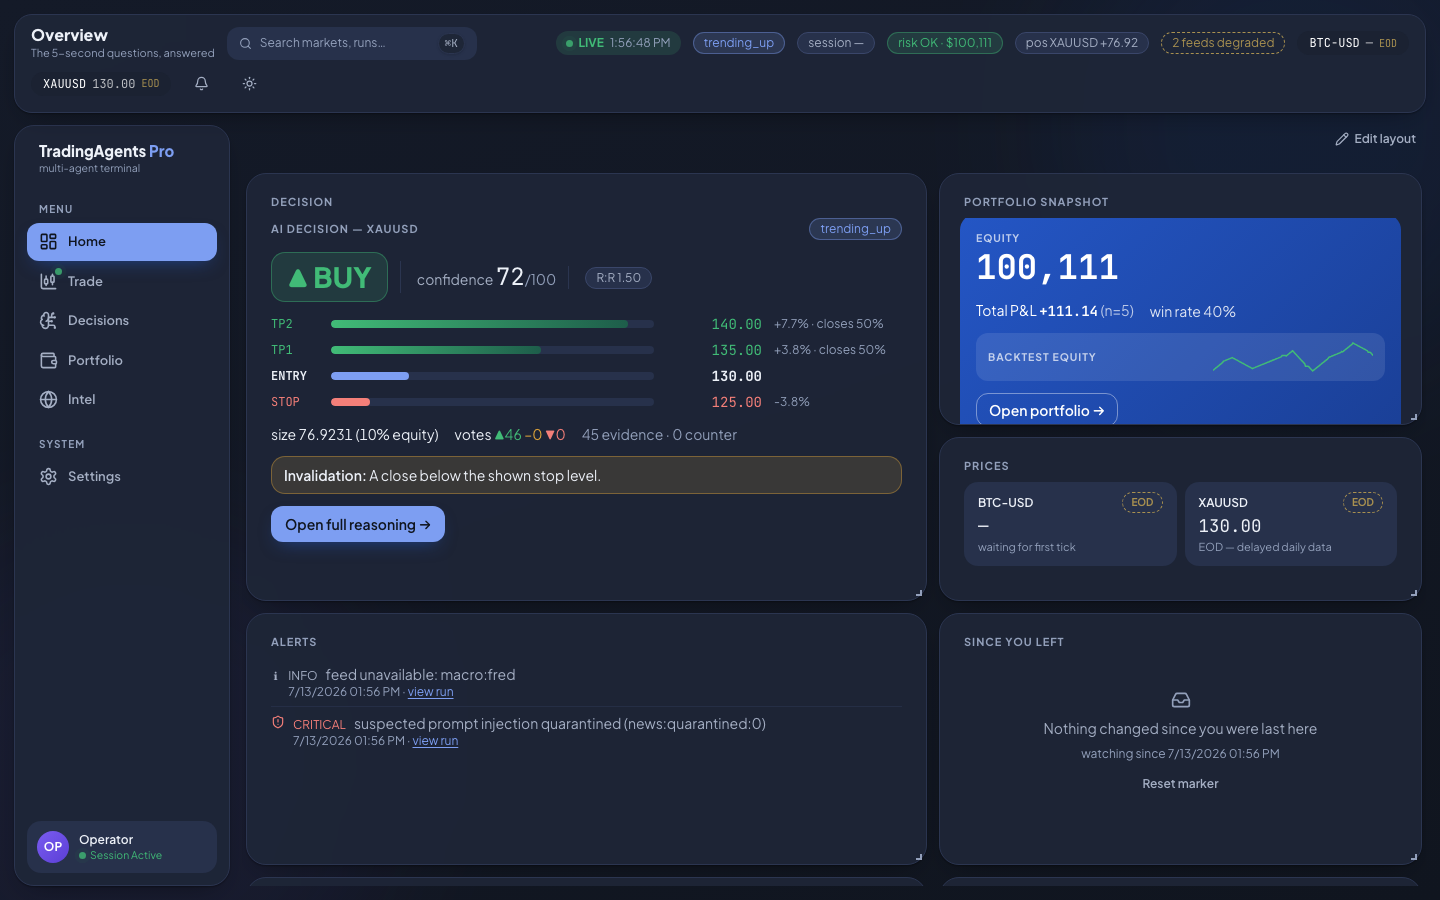
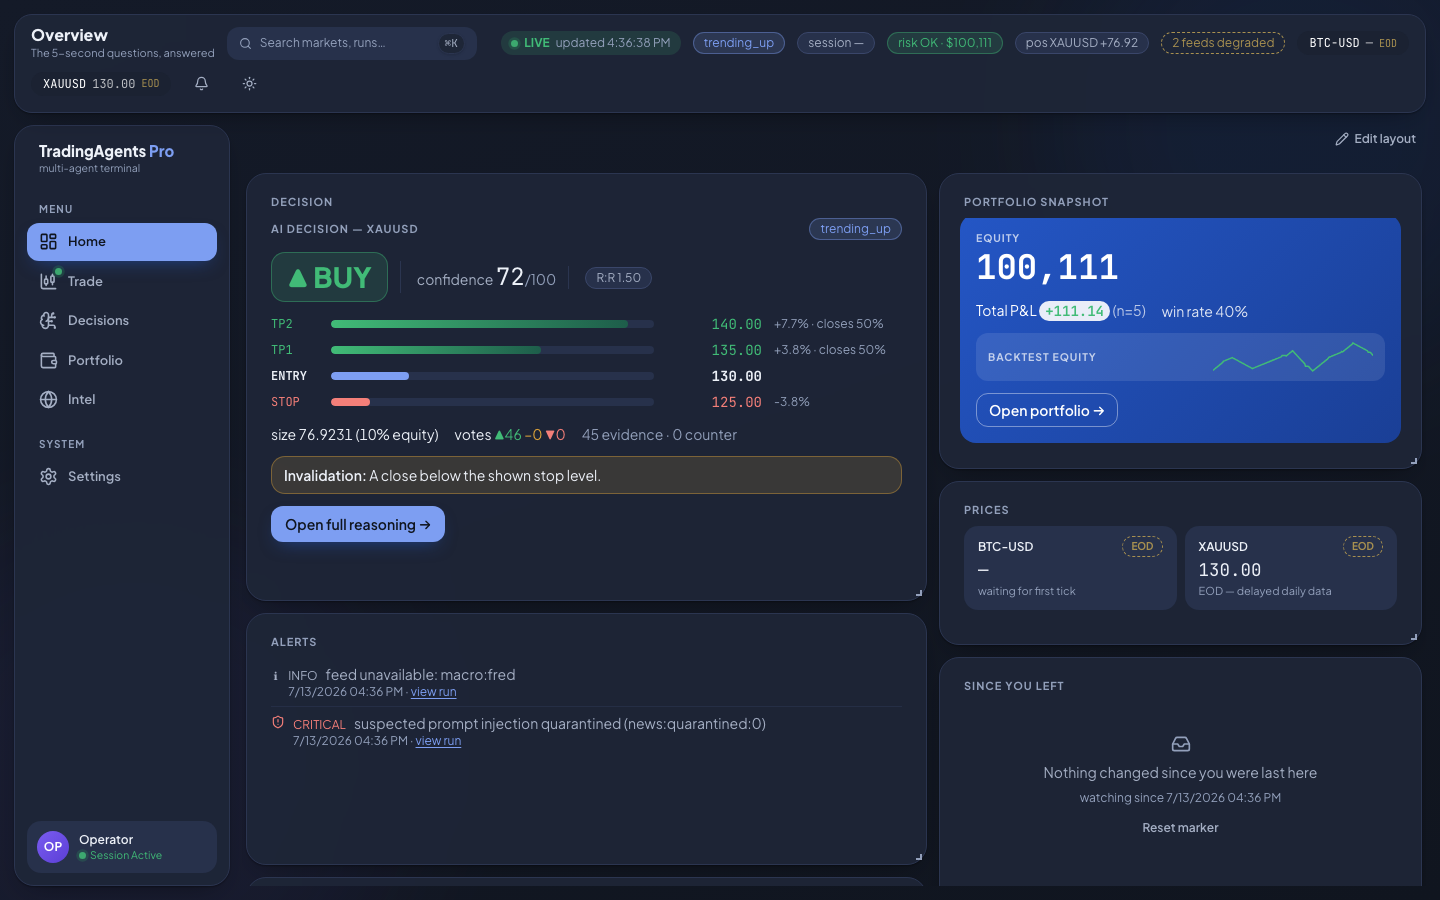
polish: fix the 7 fixable nits from DESIGN_REVIEW
- Home snapshot widget default height fits its CTA (h 6->7)
- P&L on the gradient card regains bull/bear tone via a white chip
- hero ladder restores sr-only column headers
- ConnPill timestamp says 'updated' again
- drawing-primitive fallbacks aligned to palette; fibFill now theme-derived
- <981px search icon gets a distinct aria-label
- agent leaderboard scrolls horizontally instead of clipping

Nit 8 (Binance WS console warnings) is environmental: geo-blocked network,
pre-existing transport fallback, surfaced via degraded chips. Report updated.

diff --git a/frontend/src/features/home/HomePage.tsx b/frontend/src/features/home/HomePage.tsx
@@ -23,6 +23,7 @@ import {
   useStatus,
 } from "@/lib/api/queries";
 import { fmtPnl, fmtPrice, fmtDateTime, fmtPct } from "@/lib/format";
+import { cn } from "@/lib/utils";
 import { useTick } from "@/stores/ticker";
 import { useLayoutStore } from "@/stores/layout";
 import { useUiStore } from "@/stores/ui";
@@ -70,9 +71,21 @@ function PortfolioSnapshot() {
       <div className="flex flex-wrap items-center gap-x-4 gap-y-1 text-sm">
         <span>
           Total P&L{" "}
-          <span className="font-mono font-semibold tabular">
-            {fmtPnl(j?.total_pnl)}
-          </span>
+          {/* toned chip: white base keeps bull/bear legible on the gradient */}
+          {j?.total_pnl != null ? (
+            <span
+              className={cn(
+                "rounded-md bg-white/90 px-1.5 py-px font-mono font-semibold tabular",
+                j.total_pnl >= 0 ? "text-bull" : "text-bear",
+              )}
+            >
+              {fmtPnl(j.total_pnl)}
+            </span>
+          ) : (
+            <span className="font-mono font-semibold tabular">
+              {fmtPnl(j?.total_pnl)}
+            </span>
+          )}
           {j?.n_trades != null && (
             <span className="text-white/70"> (n={j.n_trades})</span>
           )}
@@ -258,7 +271,7 @@ function AlertsWidget() {
 
 const WIDGETS: WidgetDef[] = [
   { id: "decision", title: "Decision", render: () => <DecisionHero />, layout: { x: 0, y: 0, w: 7, h: 10, minW: 4, minH: 7 } },
-  { id: "snapshot", title: "Portfolio snapshot", render: () => <PortfolioSnapshot />, layout: { x: 7, y: 0, w: 5, h: 6, minW: 3, minH: 5 } },
+  { id: "snapshot", title: "Portfolio snapshot", render: () => <PortfolioSnapshot />, layout: { x: 7, y: 0, w: 5, h: 7, minW: 3, minH: 6 } },
   { id: "prices", title: "Prices", render: () => <PriceRibbon />, layout: { x: 7, y: 6, w: 5, h: 4, minW: 3, minH: 4 } },
   { id: "alerts", title: "Alerts", render: () => <AlertsWidget />, layout: { x: 0, y: 10, w: 7, h: 6, minW: 3, minH: 4 } },
   { id: "diff", title: "Since you left", render: () => <SinceYouLeft />, layout: { x: 7, y: 10, w: 5, h: 6, minW: 3, minH: 4 } },

diff --git a/frontend/src/components/AgentLeaderboard.tsx b/frontend/src/components/AgentLeaderboard.tsx
@@ -12,7 +12,7 @@ export function AgentLeaderboard({ perf }: { perf: AgentPerf }) {
   });
 
   return (
-    <div className="max-h-96 overflow-y-auto">
+    <div className="max-h-96 overflow-y-auto overflow-x-auto">
       <table className="w-full text-xs" data-testid="agent-leaderboard">
         <thead className="sticky top-0 bg-surface">
           <tr className="border-b border-border text-left text-fg-subtle">
@@ -43,7 +43,7 @@ export function AgentLeaderboard({ perf }: { perf: AgentPerf }) {
                 <td className="py-1 pr-2 text-right">
                   {row.avg_confidence.toFixed(0)}
                 </td>
-                <td className="py-1 pr-2 text-right">
+                <td className="whitespace-nowrap py-1 pr-2 text-right">
                   {row.hit_rate == null
                     ? `— (n=${row.scored})`
                     : `${Math.round(row.hit_rate * 100)}% (n=${row.scored})`}

diff --git a/frontend/src/app/StatusStrip.tsx b/frontend/src/app/StatusStrip.tsx
@@ -72,7 +72,7 @@ function ConnPill() {
       {state === "disconnected" && "DISCONNECTED"}
       {state === "live" && lastSuccess > 0 && (
         <span className="font-normal text-fg-subtle max-md:hidden">
-          {fmtTime(new Date(lastSuccess).toISOString())}
+          updated {fmtTime(new Date(lastSuccess).toISOString())}
         </span>
       )}
     </span>
@@ -261,7 +261,7 @@ export function StatusStrip() {
         <Button
           variant="ghost"
           size="icon"
-          aria-label="Search and commands (Cmd+K)"
+          aria-label="Search (Cmd+K)"
           className="min-[981px]:hidden"
           onClick={() => setPaletteOpen(true)}
         >

diff --git a/frontend/src/components/charts/drawings/primitive.ts b/frontend/src/components/charts/drawings/primitive.ts
@@ -43,11 +43,13 @@ export class DrawingsPrimitive implements ISeriesPrimitive<Time> {
   private requestUpdateFn: (() => void) | null = null;
   private drawings: Drawing[] = [];
   private preview: PreviewState | null = null;
+  // fallbacks only — PriceChart overrides all of these with theme tokens
+  // via setDrawings before anything is drawn
   private colors: DrawingColors = {
-    line: "#79c0ff",
-    fib: "#d29922",
-    fibFill: "rgba(210,153,34,0.07)",
-    label: "#9ca7b3",
+    line: "#2456c5",
+    fib: "#8b610d",
+    fibFill: "rgba(139,97,13,0.08)",
+    label: "#646f84",
   };
   private paneView: IPrimitivePaneView;
 

diff --git a/frontend/src/components/DecisionCard.tsx b/frontend/src/components/DecisionCard.tsx
@@ -70,6 +70,9 @@ function LevelLadder({ rec }: { rec: Recommendation }) {
   ];
   return (
     <div className="space-y-1.5">
+      {/* the old table variant exposed column headers to screen readers;
+          the ladder keeps that contract */}
+      <div className="sr-only">Levels: label, price, detail</div>
       {rows.map((row) => (
         <div key={row.label} className="flex items-center gap-3 text-sm">
           <span className={cn("w-12 font-mono text-xs", row.textClass)}>

diff --git a/frontend/src/components/charts/PriceChart.tsx b/frontend/src/components/charts/PriceChart.tsx
@@ -322,6 +322,7 @@ export function PriceChart({
     primitiveRef.current?.setDrawings(drawings, {
       line: colors.accent,
       fib: colors.neutral,
+      fibFill: hexToRgba(colors.neutral, 0.08),
       label: colors.muted,
     });
   }, [drawings, theme, bars, style, indicators, showVolume]);

diff --git a/DESIGN_REVIEW.md b/DESIGN_REVIEW.md
@@ -41,16 +41,16 @@ Navigating Home → Trade → Portfolio → Trade in one SPA session crashes the
 
 Verified compliant (not deviations): Workspace symbol title 18 px/800 normal-case is the spec's own Trade exception; hover lift only on `interactive` cards matches spec §1; card titles 11 px uppercase `--fg-subtle`; `font-display: swap` present for both font families (no invisible-text period).
 
-## 5. Nits (follow-up material, not fixed here)
+## 5. Nits — all addressed in the follow-up commit (except 8, environmental)
 
-1. **Portfolio snapshot CTA clipped** by the default widget height on Home (both themes; user-resizable, but the default layout should fit it). `desktop-dark-home.png` bottom of gradient card.
-2. **Home P&L lost its bull/bear tone** on the gradient card — direction now conveyed by sign only (old StatCard was toned). White-on-gradient is spec-mandated; consider a toned chip inside the card.
-3. **Hero DecisionCard dropped the sr-only Level/Price/Detail table headers** the old table variant had (all row content still present; non-hero variant unaffected).
-4. ConnPill timestamp lost the word "updated" (honesty-label wording, minor).
-5. `drawings/primitive.ts` fallback constants still carry old-palette hexes (`#79c0ff`/`#d29922`/`#9ca7b3`) — runtime always overrides them with theme tokens via `setDrawings` except `fibFill` (7 %-alpha amber band, both themes). Cosmetic dead code.
-6. Two same-labeled search buttons coexist in the DOM (one `display:none` per breakpoint) — fine for users, mildly brittle for `getByLabelText`-style queries.
-7. Agent leaderboard columns clip slightly in the 310 px rail (`desktop-dark-decisions.png`).
-8. Console shows `wss://stream.binance.com` WebSocket warnings on this network (geo-blocked; pre-existing transport fallback, honest "degraded" chips shown). Zero app errors/warnings otherwise in both themes across all 7 routes.
+1. **Portfolio snapshot CTA clipped** by the default Home widget height — FIXED: default/min layout height 6→7 / 5→6 (persisted user layouts unaffected).
+2. **Home P&L lost its bull/bear tone** on the gradient card — FIXED: toned chip (white base, bull/bear text — legible on the gradient in both themes); plain white kept for the null case.
+3. **Hero DecisionCard dropped the sr-only Level/Price/Detail headers** — FIXED: sr-only header line restored in the ladder.
+4. ConnPill timestamp lost the word "updated" — FIXED: wording restored.
+5. `drawings/primitive.ts` old-palette fallback constants + never-overridden `fibFill` — FIXED: fallbacks aligned to the current palette, and `PriceChart` now passes a theme-derived `fibFill` via `setDrawings`.
+6. Two same-labeled search buttons in the DOM — FIXED: the <981 px icon variant is labeled "Search (Cmd+K)" (distinct from the field's "Search and commands (Cmd+K)").
+7. Agent leaderboard clipping in the 310 px rail — FIXED: horizontal scroll instead of clipping; hit-rate cell nowrap.
+8. Console `wss://stream.binance.com` warnings on this network — WON'T FIX: geo-blocked environment; the transport fallback is pre-existing, deliberate, and surfaced honestly via "degraded" chips. Zero app errors/warnings otherwise in both themes across all 7 routes.
 
 ## 6. Behavior & safety checklist results
 
